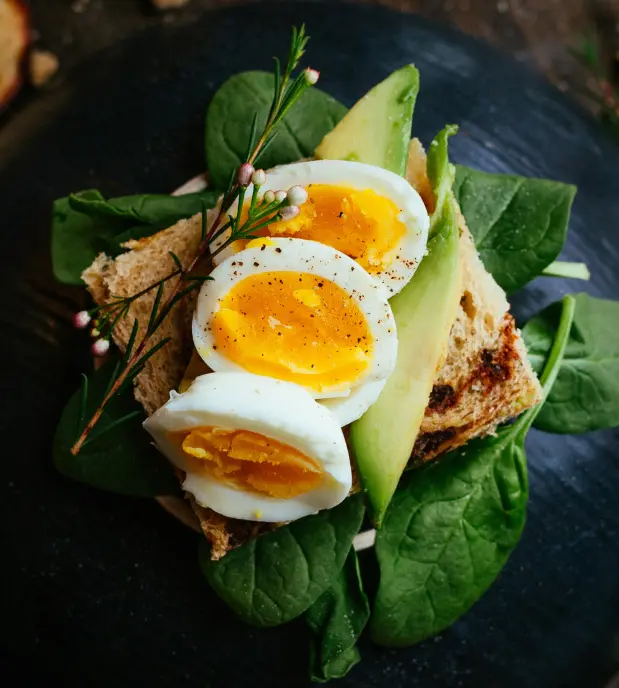
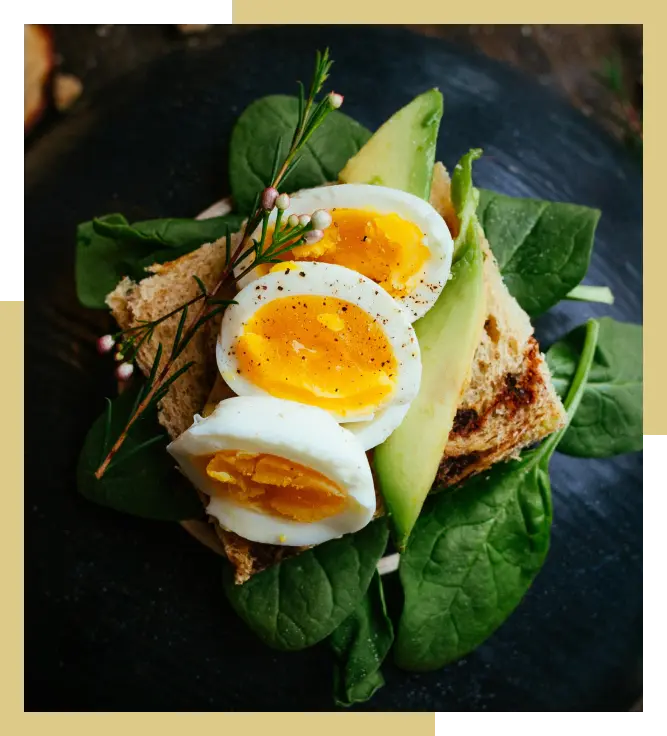
fix

diff --git a/css/main.css b/css/main.css
@@ -1054,6 +1054,166 @@ top: 6650px;
   right: 200px;
 }
 
+header{
+padding:32px 64px 64px;
+min-height:100vh;
+}
+
+
+header > div{
+max-width:1400px;
+margin:0 auto;
+}
+
+
+
+header ul{
+list-style:none;
+display:flex;
+align-items:center;
+justify-content:space-between;
+margin-bottom:80px;
+}
+
+
+header ul li{
+font-size:14px;
+color:#ddd;
+cursor:pointer;
+}
+
+
+header ul li:first-child{
+font-family:'Cormorant Garamond',serif;
+font-size:28px;
+letter-spacing:2px;
+color:var(--white);
+}
+
+.section-header{
+position:relative;
+display:grid;
+grid-template-columns:1.1fr 1fr;
+gap:64px;
+align-items:center;
+}
+
+
+/* LEFT */
+.section-header p:first-of-type{
+color:var(--gold);
+letter-spacing:2px;
+text-transform:capitalize;
+}
+
+
+.section-header h1{
+margin:24px 0;
+font-family:'Cormorant Garamond',serif;
+font-size:72px;
+line-height:1.05;
+color:var(--gold);
+}
+
+
+.section-header p:nth-of-type(2){
+color:var(--muted);
+max-width:520px;
+line-height:1.7;
+}
+
+
+.section-header button{
+margin-top:40px;
+width:420px;
+height:60px;
+background:var(--gold);
+border:none;
+color:#000;
+font-size:16px;
+letter-spacing:1px;
+cursor:pointer;
+}
+
+
+
+
+
+.section-header > img[alt="eggs"]{
+position:relative;
+width:100%;
+max-width:420px;
+justify-self:center;
+z-index:2;
+}
+
+
+
+
+
+.section-header::after{
+content:none;
+}
+
+
+
+
+
+.section-header::before{
+content:"#Gericht #Bar";
+position:absolute;
+left:-40px;
+top:50%;
+transform:rotate(-90deg);
+font-size:12px;
+letter-spacing:2px;
+color:#888;
+}
+
+
+
+.section-header p:nth-of-type(3){
+position:absolute;
+bottom:-48px;
+left:0;
+font-size:12px;
+letter-spacing:2px;
+color:#ccc;
+}
+
+
+.add {
+  position: relative;
+  right: 765px;
+  top: 25px;
+}
+
+
+
+
+.section-header p:last-of-type{
+position:absolute;
+bottom:-44px;
+right:48px;
+font-size:14px;
+color:var(--gold);
+letter-spacing:2px;
+}
+
+.eggs {
+position: relative;
+bottom: 250px;
+}
+
+.lorem {
+position: relative;
+right: 750px;
+top: 150px;
+  
+}
+
+
+
 
 
 

diff --git a/index.html b/index.html
@@ -18,20 +18,20 @@
                 <li>Log in / registration</li>
                 <li>book table</li>
             </ul>
-            <section>
-                <p>Chase the new Flavour</p>
-                <img src="./src/helpful-item.webp" alt="helpful-item" />
-                <h1>The key to Fine dining</h1>
-                <p>
-                    Sit tellus lobortis sed senectus vivamus molestie. Condimentum
-                    volutpat morbi facilisis quam scelerisque sapien. Et, penatibus
+            <section class="section-header">
+                <p clas>Chase the new Flavour</p>
+                <img class="add" src="./src/helpful-item.webp" alt="helpful-item" />
+                <h1>The Key To Fine Dining</h1>
+                <p class="lorem">
+                    Sit tellus lobortis sed senectus vivamus molestie. <br> Condimentum
+                    volutpat morbi facilisis quam scelerisque <br> sapien. Et, penatibus
                     aliquam amet tellus
                 </p>
                 <button>Explore Menu</button>
-                <img src="./src/eggs.webp" alt="eggs" />
+                <img class="eggs" src="./src/eggs.webp" alt="eggs" />
                 <p>01 -02 03 04</p>
                 <img src="./src/scroll-item.webp" alt="scroll-item" />
-                <p>Scroll</p>
+                <p class="scroll">Scroll</p>
             </section>
         </div>
     </header>

diff --git a/css/variables.css b/css/variables.css
@@ -8,4 +8,8 @@
     --medium-gray: #ABABAB;
     --dark-brown: #0C0B08;
     --dark-gray: #272727;
+    --bg:#0b0b0b;
+--gold:#dcca87;
+--muted:#aaaaaa;
+--white:#ffffff;
 }
